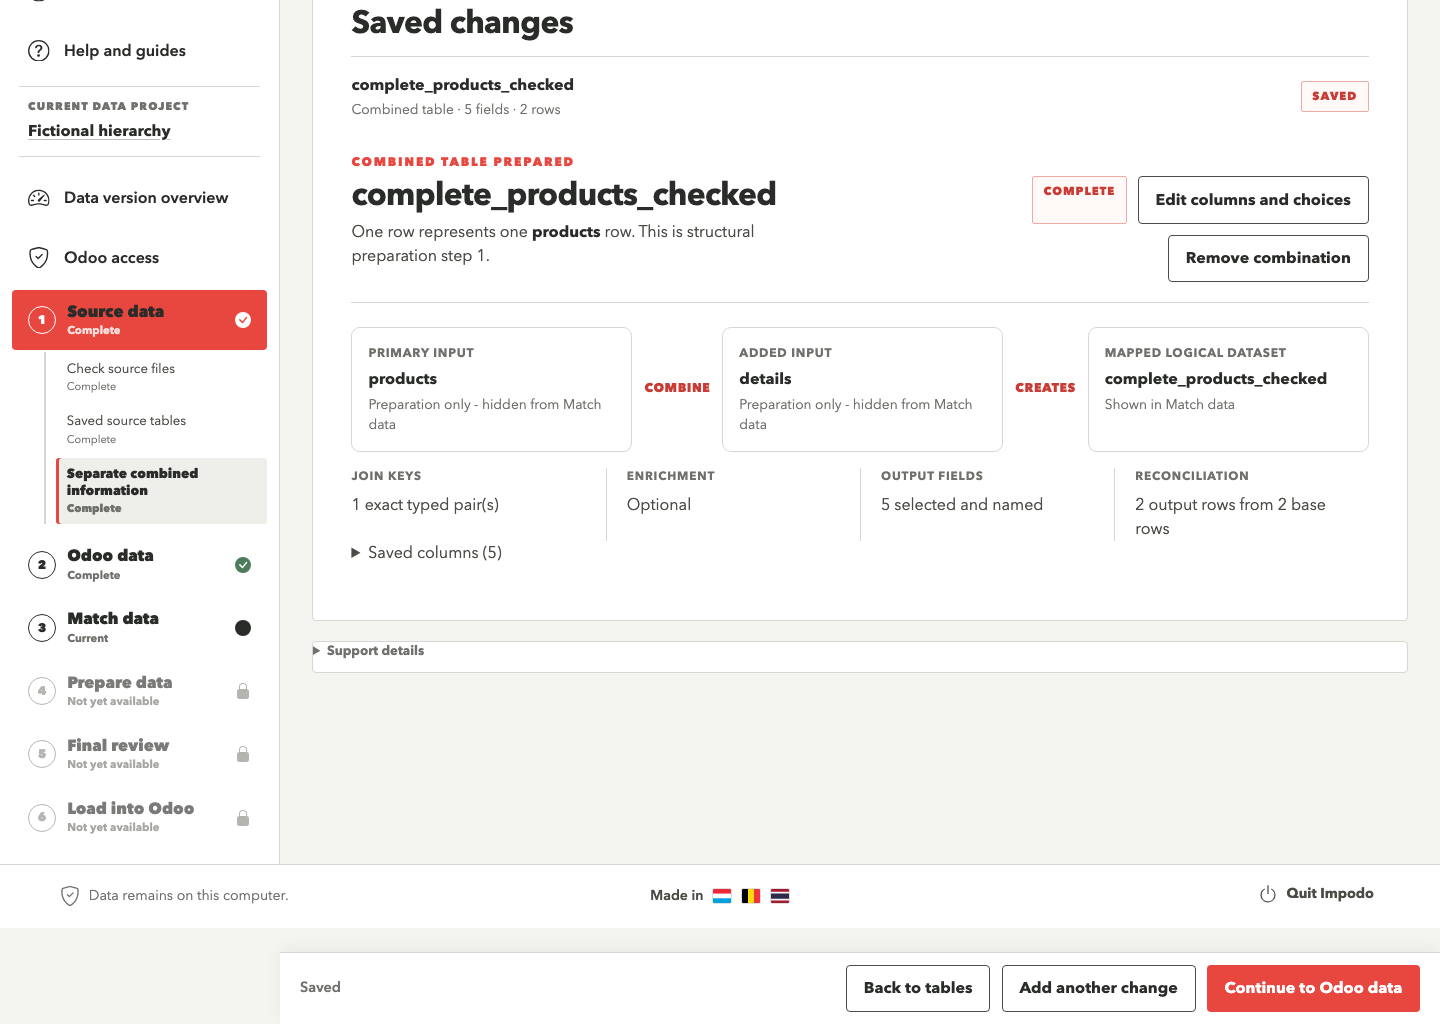
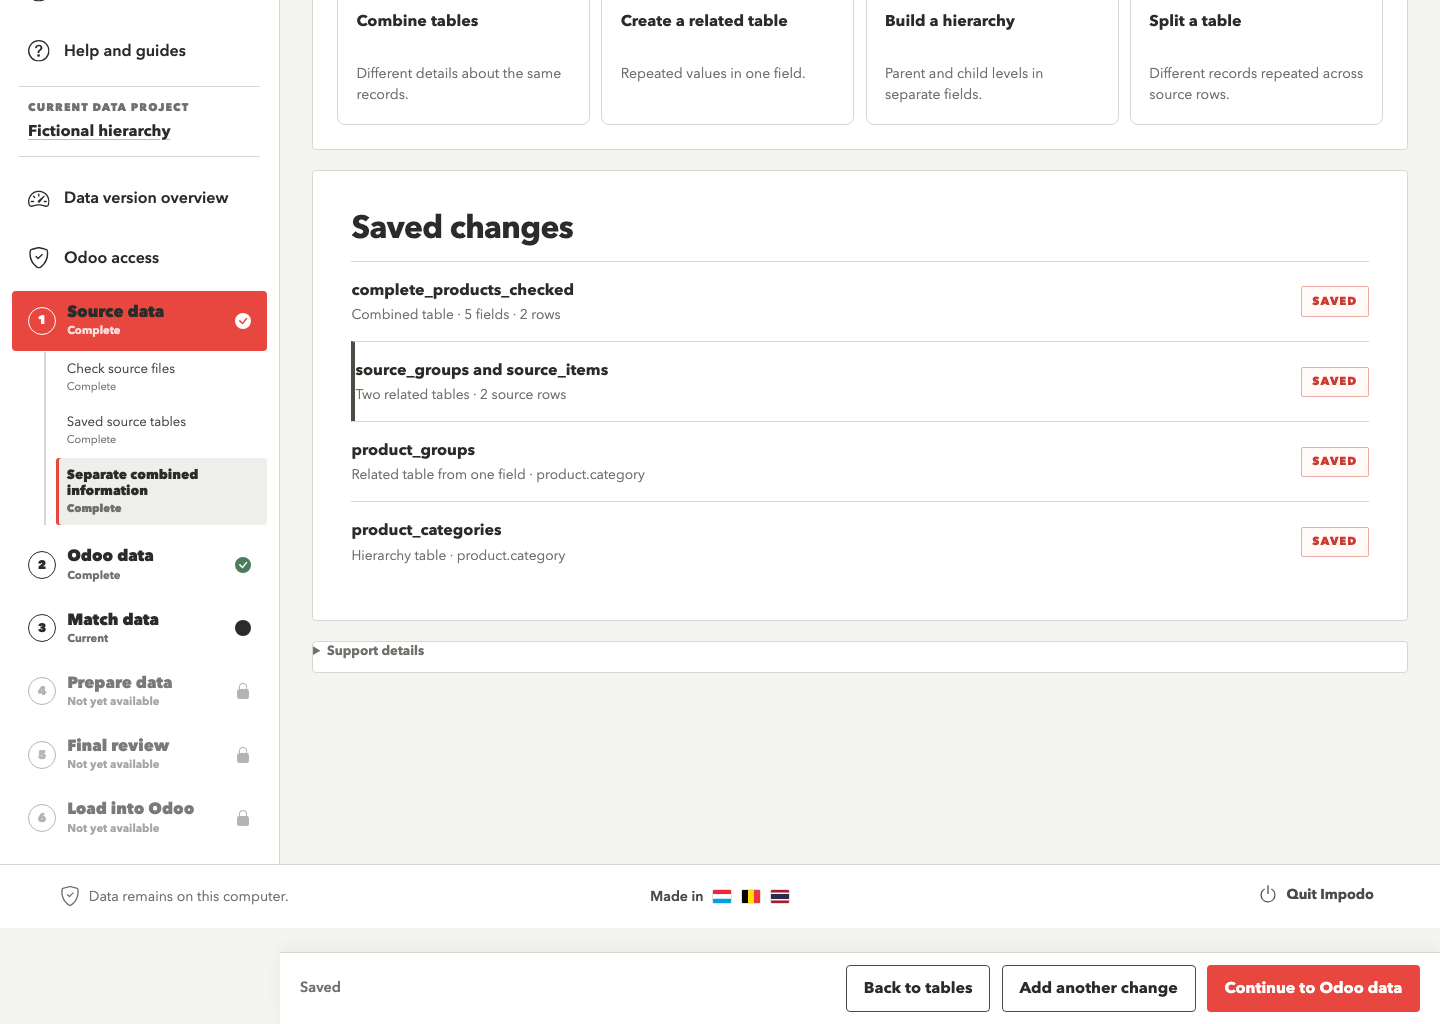
fix: keep source reviews focused on saved changes
Save reviewed source changes before showing their saved summary, and keep
continuation to Odoo data as a separate action. Update recovery coverage and
the current source-review documentation and screenshots.

diff --git a/src/impodo/web/static/derived-journey.js b/src/impodo/web/static/derived-journey.js
@@ -170,8 +170,8 @@ document.addEventListener("DOMContentLoaded", () => {
       : dirty ? "Unsaved changes" : ready ? "Ready to use"
       : pendingReview() ? "Needs attention" : "Saved";
     next.textContent = dirty || (pendingReview() && !ready) ? "Review result"
-      : ready ? "Save and continue" : "Continue to Odoo data";
-    next.setAttribute("aria-label", ready ? "Save and continue to Odoo data" : next.textContent);
+      : ready ? "Save and review changes" : "Continue to Odoo data";
+    next.setAttribute("aria-label", next.textContent);
     next.setAttribute("aria-disabled", String(busy || uncertain));
     if (another) another.disabled = busy || uncertain;
     if (another) another.textContent = ready ? "Save and add another" : "Add another change";
@@ -260,8 +260,7 @@ document.addEventListener("DOMContentLoaded", () => {
     update();
     const body = new FormData(form);
     submittedVersion = body.get("expected_parent_version") || "";
-    // Confirm the saved source result before ordinary navigation follows the
-    // Authoring or Recipe-run destination's existing gates and redirects.
+    // Every save returns to Stage 1. Continuing to Stage 2 is a separate action.
     body.set("return_to", "");
     document.dispatchEvent(new CustomEvent("impodo:operation-started"));
     try {
@@ -277,10 +276,11 @@ document.addEventListener("DOMContentLoaded", () => {
         const card = Array.from(html.querySelectorAll("[data-source-saved]")).find(
           (element) => element.dataset.sourceName === name
         );
-        url.hash = card?.id || "saved-source-changes";
+        url.hash = destination === "summary" ? "saved-source-changes"
+          : card?.id || "saved-source-changes";
         try { sessionStorage.setItem(storageKey, destination); } catch { /* Navigation still works. */ }
         leaving = true;
-        location.assign(destination === "schema" ? next.href : url.href);
+        location.assign(url.href);
         return;
       }
       if (response.status === 422 || response.status === 409 || response.status === 403) {
@@ -387,7 +387,7 @@ document.addEventListener("DOMContentLoaded", () => {
     event.preventDefault();
     if (busy || uncertain) return;
     const review = validReview();
-    if (review) save(review.querySelector("form[data-source-save]"), "schema");
+    if (review) save(review.querySelector("form[data-source-save]"), "summary");
     else reviewCurrent();
   });
   another?.addEventListener("click", () => {

diff --git a/tests/e2e/test_source_save_recovery.py b/tests/e2e/test_source_save_recovery.py
@@ -186,8 +186,15 @@ class SourceSaveRecoveryBrowserTests(unittest.TestCase):
         self.page.goto(f"{self.base}{self.preview_path}")
         expect(self.state).to_have_text("Ready to use")
 
-    def test_continue_confirms_save_before_ordinary_next_page_navigation(self):
+    def test_final_save_shows_summary_before_separate_next_page_navigation(self):
         self.mode = "success"
+        stage_two_requests = []
+        self.page.on(
+            "request",
+            lambda request: stage_two_requests.append(request.url)
+            if urlsplit(request.url).path.endswith("/schema")
+            else None,
+        )
         # Supply the successful response after the save redirect has completed.
         # Real HTTP redirect chains are covered by the authenticated journey.
         self.page.add_init_script("""(() => {
@@ -201,19 +208,24 @@ class SourceSaveRecoveryBrowserTests(unittest.TestCase):
           };
         })();""")
         self._open_review()
-        self.page.locator("[data-source-next]").click()
-        try:
-            self.page.wait_for_url(f"{self.base}/workspaces/recovery-fixture/schema")
-        except PlaywrightTimeoutError:
-            self.fail(
-                f"Continue stayed at {self.page.url}; state={self.state.text_content()}; notice={self.notice.text_content()}; saves={len(self.save_posts)}; reads={self.reads}; errors={self.errors}"
-            )
+        self.page.get_by_role("link", name="Save and review changes", exact=True).click()
+        self.page.wait_for_url(f"{self.base}{self.path}#saved-source-changes")
+        summary = self.page.get_by_role("heading", name="Saved changes", exact=True)
+        expect(summary).to_be_visible()
+        expect(summary).to_be_focused()
+        expect(self.state).to_have_text("Saved")
+        self.assertEqual(stage_two_requests, [])
+        self.assertEqual(self.version, "8")
+        self.assertEqual(len(self.save_posts), 1)
+        self.page.get_by_role("link", name="Continue to Odoo data", exact=True).click()
+        self.page.wait_for_url(f"{self.base}/workspaces/recovery-fixture/schema")
         expect(
             self.page.get_by_role("heading", name="Recipe Odoo requirements")
         ).to_be_visible()
         self.assertEqual(self.version, "8")
         self.assertIn(self.path, self.reads)
         self.assertEqual(len(self.save_posts), 1)
+        self.assertEqual(len(stage_two_requests), 1)
 
     def _lose_save(self, mode):
         self.mode = mode

diff --git a/tests/e2e/test_source_journey.py b/tests/e2e/test_source_journey.py
@@ -392,8 +392,17 @@ class SourceJourneyBrowserTests(unittest.TestCase):
             self.columns["Id"]
         )
         self._review(panel)
+        expect(self.next).to_have_text("Save and review changes")
         self.next.click()
-        self.page.wait_for_url(f"**/workspaces/{self.workspace_id}/schema")
+        self.page.wait_for_url(f"**{self.path}#saved-source-changes")
+        summary = self.page.get_by_role("heading", name="Saved changes", exact=True)
+        expect(summary).to_be_in_viewport()
+        expect(summary).to_be_focused()
+        expect(self.state).to_have_text("Saved")
+        expect(self.page.locator("[data-source-saved]")).to_have_count(4)
+        expect(self.next).to_have_text("Continue to Odoo data")
+        expect(self.next).to_be_in_viewport()
+        self._capture("06l-stage1-saved-changes.png")
         self.assertEqual(self._plan().version, 4)
         effective = self.fixture.context.queries.get_mapping_source_selection(
             self.workspace_id
@@ -407,6 +416,9 @@ class SourceJourneyBrowserTests(unittest.TestCase):
                 "source_items",
             }.issubset({item.name for item in effective.datasets})
         )
+        self.next.click()
+        self.page.wait_for_url(f"**/workspaces/{self.workspace_id}/schema")
+        self.assertEqual(self._plan().version, 4)
 
     def _reopen_and_narrow_layout(self):
         self.page.goto(f"{self.base}{self.path}", wait_until="networkidle")

diff --git a/docs/developer/workflow/01-source-data.md b/docs/developer/workflow/01-source-data.md
@@ -124,8 +124,9 @@ operation's editor and review together. `derived-journey.js` presents the
 review, retains the editor, and uses the existing save route for **Use this
 table**. Saved results appear in compact summaries, with a hierarchy kept in
 its own result context. **Save and add another** saves the current valid review
-before opening another source choice; **Save and continue** saves it before
-opening Odoo data. Editing its inputs requires a new review. The browser
+before opening another source choice. **Save and review changes** saves it and
+focuses the **Saved changes** summary. A separate **Continue to Odoo data**
+action opens Stage 2. Editing its inputs requires a new review. The browser
 protects pending work during navigation;
 the save command remains the authority for accepting it.
 
@@ -650,10 +651,12 @@ datasets.
 File mode completes when a source selection exists and then unlocks Odoo data.
 The file-source gate describes saved evidence; it cannot observe browser-only
 changes. The source-task coordinator therefore reviews pending inputs and
-saves the current accepted result before continuing. The save routes accept
-only the allowlisted `return_to=schema` destination and redirect there after
-their existing version-checked save succeeds. Completed rules do not need
-another save, which would invalidate downstream mapping and preparation.
+saves the current accepted result before showing **Saved changes**. The browser
+leaves `return_to` empty so saving stays in Stage 1. The user then selects
+**Continue to Odoo data** to open Stage 2 through its existing navigation gates.
+The save routes retain the allowlisted `return_to=schema` destination for
+explicit callers. Completed rules do not need another save, which would
+invalidate downstream mapping and preparation.
 
 Odoo mode deliberately reverses the first two responsibilities. **Select data
 to download** captures eligible fields and model-specific plans, then

diff --git a/docs/user/workflow/01-source-data.md b/docs/user/workflow/01-source-data.md
@@ -43,10 +43,11 @@ result. Select **Add another change** to work on the next table.
 From a ready review, **Save and add another** saves that result and opens the
 source choices together.
 
-When you finish, select **Continue to Odoo data**. If your current selections
-need checking, the action becomes **Review result**. After that review,
-**Save and continue** saves the accepted change before opening **Odoo data**
-in Stage 2. You do not need to save completed changes again.
+When you finish a change, select **Save and review changes** to save it and
+see the **Saved changes** summary. If your current selections need checking,
+the action becomes **Review result** first. From the summary, select
+**Continue to Odoo data** to open Stage 2. You do not need to save completed
+changes again.
 
 Choose **Combine tables** when one primary frozen
 table and up to nine added tables describe the same business record. Name the

diff --git a/docs/user/guides/related-tables.md b/docs/user/guides/related-tables.md
@@ -54,8 +54,9 @@ Open **Source data**, then **Separate combined information**.
 Work on one change at a time. Review its result, then select **Use this table**
 to save it. The result appears under **Saved changes**. Use **Add another
 change** for the next source choice. From a ready review, **Save and add
-another** saves the result and opens those choices, while **Save and continue**
-saves it and opens **Odoo data**. If you edit a reviewed choice,
+another** saves the result and opens those choices. **Save and review changes**
+saves it and shows the **Saved changes** summary. Review the summary, then select
+**Continue to Odoo data** to open Stage 2. If you edit a reviewed choice,
 Impodo asks you to **Review result** again before saving it.
 
 The question mark beside **What does your source contain?** opens the choices
